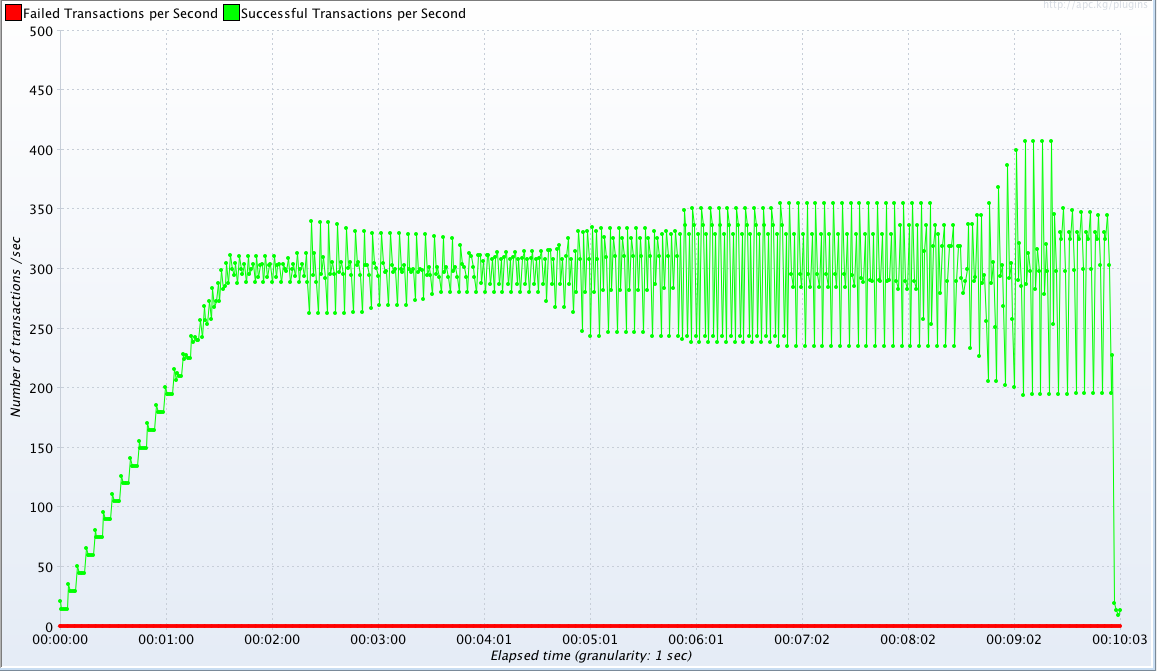
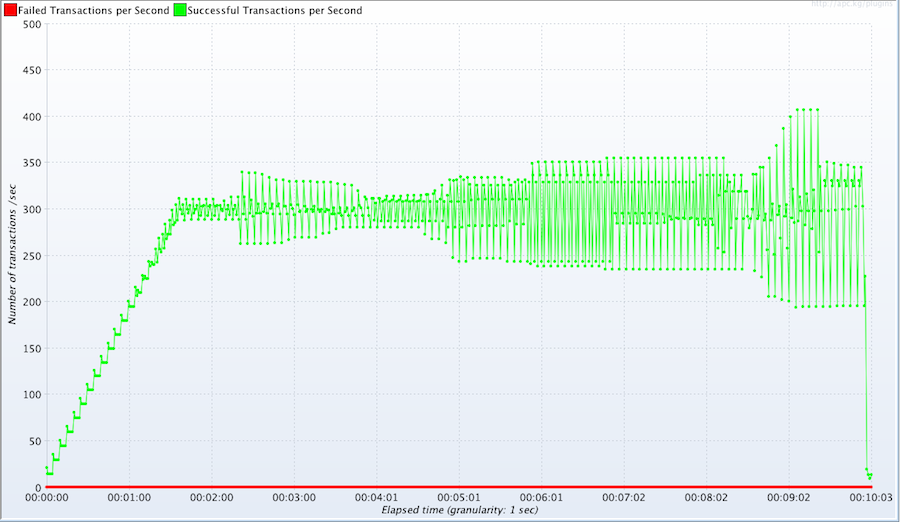
Ported "Sponsors" page + fix images

diff --git a/src/site/sphinx/general_information/sponsors.rst b/src/site/sphinx/general_information/sponsors.rst
@@ -1,3 +1,38 @@
 ########
 Sponsors
 ########
+
+eBusiness Information
+=====================
+.. image:: img/ebiz_logo.png
+  :alt: eBusiness Information
+
+Gatling is an open source project supported by `eBusiness Information <http://www.ebusinessinformation.fr>`_, an `Excilys Group <http://www.excilys.com>`_ company.
+
+Yourkit
+=======
+.. image:: img/yourkit_logo.png
+  :alt: Yourkit
+
+YourKit is kindly supporting open source projects with its full-featured Java Profiler.
+YourKit, LLC is the creator of innovative and intelligent tools for profiling Java and .NET applications. Take a look at YourKit's leading software products:
+`YourKit Java Profiler <http://www.yourkit.com/java/profiler/index.jsp>`_ and `YourKit .NET Profiler <http://www.yourkit.com/.net/profiler/index.jsp>`_.
+
+Yourkit has been and is still a great help for checking and fixing memory and concurrency issues while developing Gatling.
+
+Highsoft AS
+===========
+.. image:: img/highsoft_logo.png
+  :alt: Highsoft AS
+
+`Highsoft AS <http://www.highsoft.com>`_ is the company behind `Highcharts <http://www.highcharts.com/products/highcharts>`_ and `Highstock <http://www.highcharts.com/products/highstock>`_, two astonishing JavaScript charting libraries.
+
+Gatling's reports would not be as nice as they are if it wasn't for Highsoft libraries. They add incontestable value to these reports through their look and feel and their ability to display nicely thousands of points.
+
+Cloudbees
+=========
+
+.. image:: img/devcloud_logo.png
+  :alt: Cloudbees
+
+Gatling is built on the excellent `Cloudbees <http://www.cloudbees.com>`_ PAAS.

diff --git a/src/site/sphinx/general_information/benchmarks.rst b/src/site/sphinx/general_information/benchmarks.rst
@@ -71,11 +71,9 @@ And here are the results, run in quite similar conditions:
 See for yourself!
 
 .. image:: img/benchmark-jmeter-transactions.png
-  :width: 70 %
 
 JMeter 2.8
 
 .. image:: img/benchmark-gatling-transactions.png
-  :scale: 50 %
 
 Gatling 1.3.2
